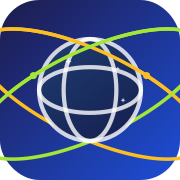
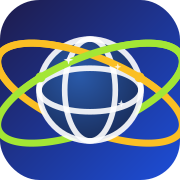
feat: Phase 168 — 파비콘 v9 교체 (굵은 궤도선 20px + 밝은 지구본 채움 #2a5aaa, 캐시버스팅 ?v=168)

diff --git a/src/seller_console/templates/_base.html b/src/seller_console/templates/_base.html
@@ -7,10 +7,10 @@
   <title>{% block title %}셀러 콘솔{% endblock %} | {{ _brand_name }}</title>
   <meta property="og:site_name" content="{{ _brand_name }}">
   <meta property="og:title" content="{{ _brand_name }}">
-  <link rel="icon" type="image/svg+xml" href="{{ url_for('seller_console.static', filename='favicon.svg', v='166') }}">
-  <link rel="icon" type="image/x-icon" href="{{ url_for('seller_console.static', filename='favicon.ico', v='166') }}">
-  <link rel="apple-touch-icon" href="{{ url_for('seller_console.static', filename='apple-touch-icon.png', v='166') }}">
-  <link rel="manifest" href="{{ url_for('seller_console.static', filename='manifest.webmanifest', v='166') }}">
+  <link rel="icon" type="image/svg+xml" href="{{ url_for('seller_console.static', filename='favicon.svg', v='168') }}">
+  <link rel="icon" type="image/x-icon" href="{{ url_for('seller_console.static', filename='favicon.ico', v='168') }}">
+  <link rel="apple-touch-icon" href="{{ url_for('seller_console.static', filename='apple-touch-icon.png', v='168') }}">
+  <link rel="manifest" href="{{ url_for('seller_console.static', filename='manifest.webmanifest', v='168') }}">
   <meta name="theme-color" content="#1e1b4b">
   <link rel="stylesheet" href="https://cdn.jsdelivr.net/npm/bootstrap@5.3.0/dist/css/bootstrap.min.css">
   <link rel="stylesheet" href="https://cdn.jsdelivr.net/npm/bootstrap-icons@1.11.3/font/bootstrap-icons.min.css">

diff --git a/src/shop/templates/shop/base.html b/src/shop/templates/shop/base.html
@@ -10,10 +10,10 @@
   {% if self.og_image() %}<meta property="og:image" content="{% block og_image %}{% endblock %}">{% endif %}
   <meta property="og:type" content="website">
   <link rel="canonical" href="{% block canonical %}{{ request.url }}{% endblock %}">
-  <link rel="icon" type="image/svg+xml" href="/seller/static/favicon.svg?v=166">
-  <link rel="icon" type="image/x-icon" href="/seller/static/favicon.ico?v=166">
-  <link rel="apple-touch-icon" href="/seller/static/apple-touch-icon.png?v=166">
-  <link rel="manifest" href="/seller/static/manifest.webmanifest?v=166">
+  <link rel="icon" type="image/svg+xml" href="/seller/static/favicon.svg?v=168">
+  <link rel="icon" type="image/x-icon" href="/seller/static/favicon.ico?v=168">
+  <link rel="apple-touch-icon" href="/seller/static/apple-touch-icon.png?v=168">
+  <link rel="manifest" href="/seller/static/manifest.webmanifest?v=168">
   <meta name="theme-color" content="#1e1b4b">
   <link rel="stylesheet" href="https://cdn.jsdelivr.net/npm/bootstrap@5.3.0/dist/css/bootstrap.min.css">
   <link rel="stylesheet" href="https://cdn.jsdelivr.net/npm/bootstrap-icons@1.11.0/font/bootstrap-icons.css">

diff --git a/src/dashboard/templates/base.html b/src/dashboard/templates/base.html
@@ -7,10 +7,10 @@
   <title>{% block title %}Admin{% endblock %} | {{ _brand_name }}</title>
   <meta property="og:site_name" content="{{ _brand_name }}">
   <meta property="og:title" content="{{ _brand_name }}">
-  <link rel="icon" type="image/svg+xml" href="/seller/static/favicon.svg?v=166">
-  <link rel="icon" type="image/x-icon" href="/seller/static/favicon.ico?v=166">
-  <link rel="apple-touch-icon" href="/seller/static/apple-touch-icon.png?v=166">
-  <link rel="manifest" href="/seller/static/manifest.webmanifest?v=166">
+  <link rel="icon" type="image/svg+xml" href="/seller/static/favicon.svg?v=168">
+  <link rel="icon" type="image/x-icon" href="/seller/static/favicon.ico?v=168">
+  <link rel="apple-touch-icon" href="/seller/static/apple-touch-icon.png?v=168">
+  <link rel="manifest" href="/seller/static/manifest.webmanifest?v=168">
   <meta name="theme-color" content="#1e1b4b">
   <link rel="stylesheet" href="https://cdn.jsdelivr.net/npm/bootstrap@5.3.0/dist/css/bootstrap.min.css">
   <link rel="stylesheet" href="/admin/static/css/style.css">

diff --git a/src/templates/_base_app.html b/src/templates/_base_app.html
@@ -8,10 +8,10 @@
   <title>{% block title %}Proxy Commerce{% endblock %} | {{ _brand_name }}</title>
   <meta property="og:site_name" content="{{ _brand_name }}">
   <meta property="og:title" content="{{ _brand_name }}">
-  <link rel="icon" type="image/svg+xml" href="/seller/static/favicon.svg?v=166">
-  <link rel="icon" type="image/x-icon" href="/seller/static/favicon.ico?v=166">
-  <link rel="apple-touch-icon" href="/seller/static/apple-touch-icon.png?v=166">
-  <link rel="manifest" href="/seller/static/manifest.webmanifest?v=166">
+  <link rel="icon" type="image/svg+xml" href="/seller/static/favicon.svg?v=168">
+  <link rel="icon" type="image/x-icon" href="/seller/static/favicon.ico?v=168">
+  <link rel="apple-touch-icon" href="/seller/static/apple-touch-icon.png?v=168">
+  <link rel="manifest" href="/seller/static/manifest.webmanifest?v=168">
   <meta name="theme-color" content="#1e1b4b">
   <link rel="stylesheet"
         href="https://cdn.jsdelivr.net/npm/bootstrap@5.3.2/dist/css/bootstrap.min.css">

diff --git a/src/auth/templates/auth/reset.html b/src/auth/templates/auth/reset.html
@@ -4,10 +4,10 @@
   <meta charset="utf-8">
   <meta name="viewport" content="width=device-width, initial-scale=1">
   <title>비밀번호 재설정 — 코가네 퍼센티</title>
-  <link rel="icon" type="image/svg+xml" href="/seller/static/favicon.svg?v=166">
-  <link rel="icon" type="image/x-icon" href="/seller/static/favicon.ico?v=166">
-  <link rel="apple-touch-icon" href="/seller/static/apple-touch-icon.png?v=166">
-  <link rel="manifest" href="/seller/static/manifest.webmanifest?v=166">
+  <link rel="icon" type="image/svg+xml" href="/seller/static/favicon.svg?v=168">
+  <link rel="icon" type="image/x-icon" href="/seller/static/favicon.ico?v=168">
+  <link rel="apple-touch-icon" href="/seller/static/apple-touch-icon.png?v=168">
+  <link rel="manifest" href="/seller/static/manifest.webmanifest?v=168">
   <meta name="theme-color" content="#1e1b4b">
   <link rel="stylesheet" href="https://cdn.jsdelivr.net/npm/bootstrap@5.3.0/dist/css/bootstrap.min.css">
   <style>

diff --git a/src/auth/templates/auth/magic_link_request.html b/src/auth/templates/auth/magic_link_request.html
@@ -4,10 +4,10 @@
   <meta charset="utf-8">
   <meta name="viewport" content="width=device-width, initial-scale=1">
   <title>이메일 로그인 — 코가네 퍼센티</title>
-  <link rel="icon" type="image/svg+xml" href="/seller/static/favicon.svg?v=166">
-  <link rel="icon" type="image/x-icon" href="/seller/static/favicon.ico?v=166">
-  <link rel="apple-touch-icon" href="/seller/static/apple-touch-icon.png?v=166">
-  <link rel="manifest" href="/seller/static/manifest.webmanifest?v=166">
+  <link rel="icon" type="image/svg+xml" href="/seller/static/favicon.svg?v=168">
+  <link rel="icon" type="image/x-icon" href="/seller/static/favicon.ico?v=168">
+  <link rel="apple-touch-icon" href="/seller/static/apple-touch-icon.png?v=168">
+  <link rel="manifest" href="/seller/static/manifest.webmanifest?v=168">
   <meta name="theme-color" content="#1e1b4b">
   <link rel="stylesheet" href="https://cdn.jsdelivr.net/npm/bootstrap@5.3.0/dist/css/bootstrap.min.css">
   <style>

diff --git a/src/legal/templates/legal/privacy.html b/src/legal/templates/legal/privacy.html
@@ -4,10 +4,10 @@
   <meta charset="utf-8">
   <meta name="viewport" content="width=device-width, initial-scale=1">
   <title>개인정보처리방침 | Privacy Policy</title>
-  <link rel="icon" type="image/svg+xml" href="/seller/static/favicon.svg?v=166">
-  <link rel="icon" type="image/x-icon" href="/seller/static/favicon.ico?v=166">
-  <link rel="apple-touch-icon" href="/seller/static/apple-touch-icon.png?v=166">
-  <link rel="manifest" href="/seller/static/manifest.webmanifest?v=166">
+  <link rel="icon" type="image/svg+xml" href="/seller/static/favicon.svg?v=168">
+  <link rel="icon" type="image/x-icon" href="/seller/static/favicon.ico?v=168">
+  <link rel="apple-touch-icon" href="/seller/static/apple-touch-icon.png?v=168">
+  <link rel="manifest" href="/seller/static/manifest.webmanifest?v=168">
   <meta name="theme-color" content="#1e1b4b">
   <link rel="stylesheet" href="https://cdn.jsdelivr.net/npm/bootstrap@5.3.0/dist/css/bootstrap.min.css">
 </head>

diff --git a/src/auth/templates/auth/signup.html b/src/auth/templates/auth/signup.html
@@ -4,10 +4,10 @@
   <meta charset="utf-8">
   <meta name="viewport" content="width=device-width, initial-scale=1">
   <title>회원가입 — 코가네 퍼센티</title>
-  <link rel="icon" type="image/svg+xml" href="/seller/static/favicon.svg?v=166">
-  <link rel="icon" type="image/x-icon" href="/seller/static/favicon.ico?v=166">
-  <link rel="apple-touch-icon" href="/seller/static/apple-touch-icon.png?v=166">
-  <link rel="manifest" href="/seller/static/manifest.webmanifest?v=166">
+  <link rel="icon" type="image/svg+xml" href="/seller/static/favicon.svg?v=168">
+  <link rel="icon" type="image/x-icon" href="/seller/static/favicon.ico?v=168">
+  <link rel="apple-touch-icon" href="/seller/static/apple-touch-icon.png?v=168">
+  <link rel="manifest" href="/seller/static/manifest.webmanifest?v=168">
   <meta name="theme-color" content="#1e1b4b">
   <link rel="stylesheet" href="https://cdn.jsdelivr.net/npm/bootstrap@5.3.0/dist/css/bootstrap.min.css">
   <style>

diff --git a/src/auth/templates/auth/login.html b/src/auth/templates/auth/login.html
@@ -4,10 +4,10 @@
   <meta charset="utf-8">
   <meta name="viewport" content="width=device-width, initial-scale=1">
   <title>로그인 — 코가네 퍼센티</title>
-  <link rel="icon" type="image/svg+xml" href="/seller/static/favicon.svg?v=166">
-  <link rel="icon" type="image/x-icon" href="/seller/static/favicon.ico?v=166">
-  <link rel="apple-touch-icon" href="/seller/static/apple-touch-icon.png?v=166">
-  <link rel="manifest" href="/seller/static/manifest.webmanifest?v=166">
+  <link rel="icon" type="image/svg+xml" href="/seller/static/favicon.svg?v=168">
+  <link rel="icon" type="image/x-icon" href="/seller/static/favicon.ico?v=168">
+  <link rel="apple-touch-icon" href="/seller/static/apple-touch-icon.png?v=168">
+  <link rel="manifest" href="/seller/static/manifest.webmanifest?v=168">
   <meta name="theme-color" content="#1e1b4b">
   <link rel="stylesheet" href="https://cdn.jsdelivr.net/npm/bootstrap@5.3.0/dist/css/bootstrap.min.css">
   <style>

diff --git a/src/onboarding/templates/onboarding.html b/src/onboarding/templates/onboarding.html
@@ -4,10 +4,10 @@
   <meta charset="utf-8">
   <meta name="viewport" content="width=device-width, initial-scale=1">
   <title>처음 오셨나요? | 온보딩</title>
-  <link rel="icon" type="image/svg+xml" href="/seller/static/favicon.svg?v=166">
-  <link rel="icon" type="image/x-icon" href="/seller/static/favicon.ico?v=166">
-  <link rel="apple-touch-icon" href="/seller/static/apple-touch-icon.png?v=166">
-  <link rel="manifest" href="/seller/static/manifest.webmanifest?v=166">
+  <link rel="icon" type="image/svg+xml" href="/seller/static/favicon.svg?v=168">
+  <link rel="icon" type="image/x-icon" href="/seller/static/favicon.ico?v=168">
+  <link rel="apple-touch-icon" href="/seller/static/apple-touch-icon.png?v=168">
+  <link rel="manifest" href="/seller/static/manifest.webmanifest?v=168">
   <meta name="theme-color" content="#1e1b4b">
   <link rel="stylesheet" href="https://cdn.jsdelivr.net/npm/bootstrap@5.3.0/dist/css/bootstrap.min.css">
 </head>

diff --git a/src/legal/templates/legal/terms.html b/src/legal/templates/legal/terms.html
@@ -4,10 +4,10 @@
   <meta charset="utf-8">
   <meta name="viewport" content="width=device-width, initial-scale=1">
   <title>이용약관 | Terms of Service</title>
-  <link rel="icon" type="image/svg+xml" href="/seller/static/favicon.svg?v=166">
-  <link rel="icon" type="image/x-icon" href="/seller/static/favicon.ico?v=166">
-  <link rel="apple-touch-icon" href="/seller/static/apple-touch-icon.png?v=166">
-  <link rel="manifest" href="/seller/static/manifest.webmanifest?v=166">
+  <link rel="icon" type="image/svg+xml" href="/seller/static/favicon.svg?v=168">
+  <link rel="icon" type="image/x-icon" href="/seller/static/favicon.ico?v=168">
+  <link rel="apple-touch-icon" href="/seller/static/apple-touch-icon.png?v=168">
+  <link rel="manifest" href="/seller/static/manifest.webmanifest?v=168">
   <meta name="theme-color" content="#1e1b4b">
   <link rel="stylesheet" href="https://cdn.jsdelivr.net/npm/bootstrap@5.3.0/dist/css/bootstrap.min.css">
 </head>

diff --git a/src/auth/templates/auth/diagnostic_token_issued.html b/src/auth/templates/auth/diagnostic_token_issued.html
@@ -4,10 +4,10 @@
   <meta charset="utf-8">
   <meta name="viewport" content="width=device-width, initial-scale=1">
   <title>Diagnostic Token 발급됨</title>
-  <link rel="icon" type="image/svg+xml" href="/seller/static/favicon.svg?v=166">
-  <link rel="icon" type="image/x-icon" href="/seller/static/favicon.ico?v=166">
-  <link rel="apple-touch-icon" href="/seller/static/apple-touch-icon.png?v=166">
-  <link rel="manifest" href="/seller/static/manifest.webmanifest?v=166">
+  <link rel="icon" type="image/svg+xml" href="/seller/static/favicon.svg?v=168">
+  <link rel="icon" type="image/x-icon" href="/seller/static/favicon.ico?v=168">
+  <link rel="apple-touch-icon" href="/seller/static/apple-touch-icon.png?v=168">
+  <link rel="manifest" href="/seller/static/manifest.webmanifest?v=168">
   <meta name="theme-color" content="#1e1b4b">
   <link rel="stylesheet" href="https://cdn.jsdelivr.net/npm/bootstrap@5.3.0/dist/css/bootstrap.min.css">
 </head>
